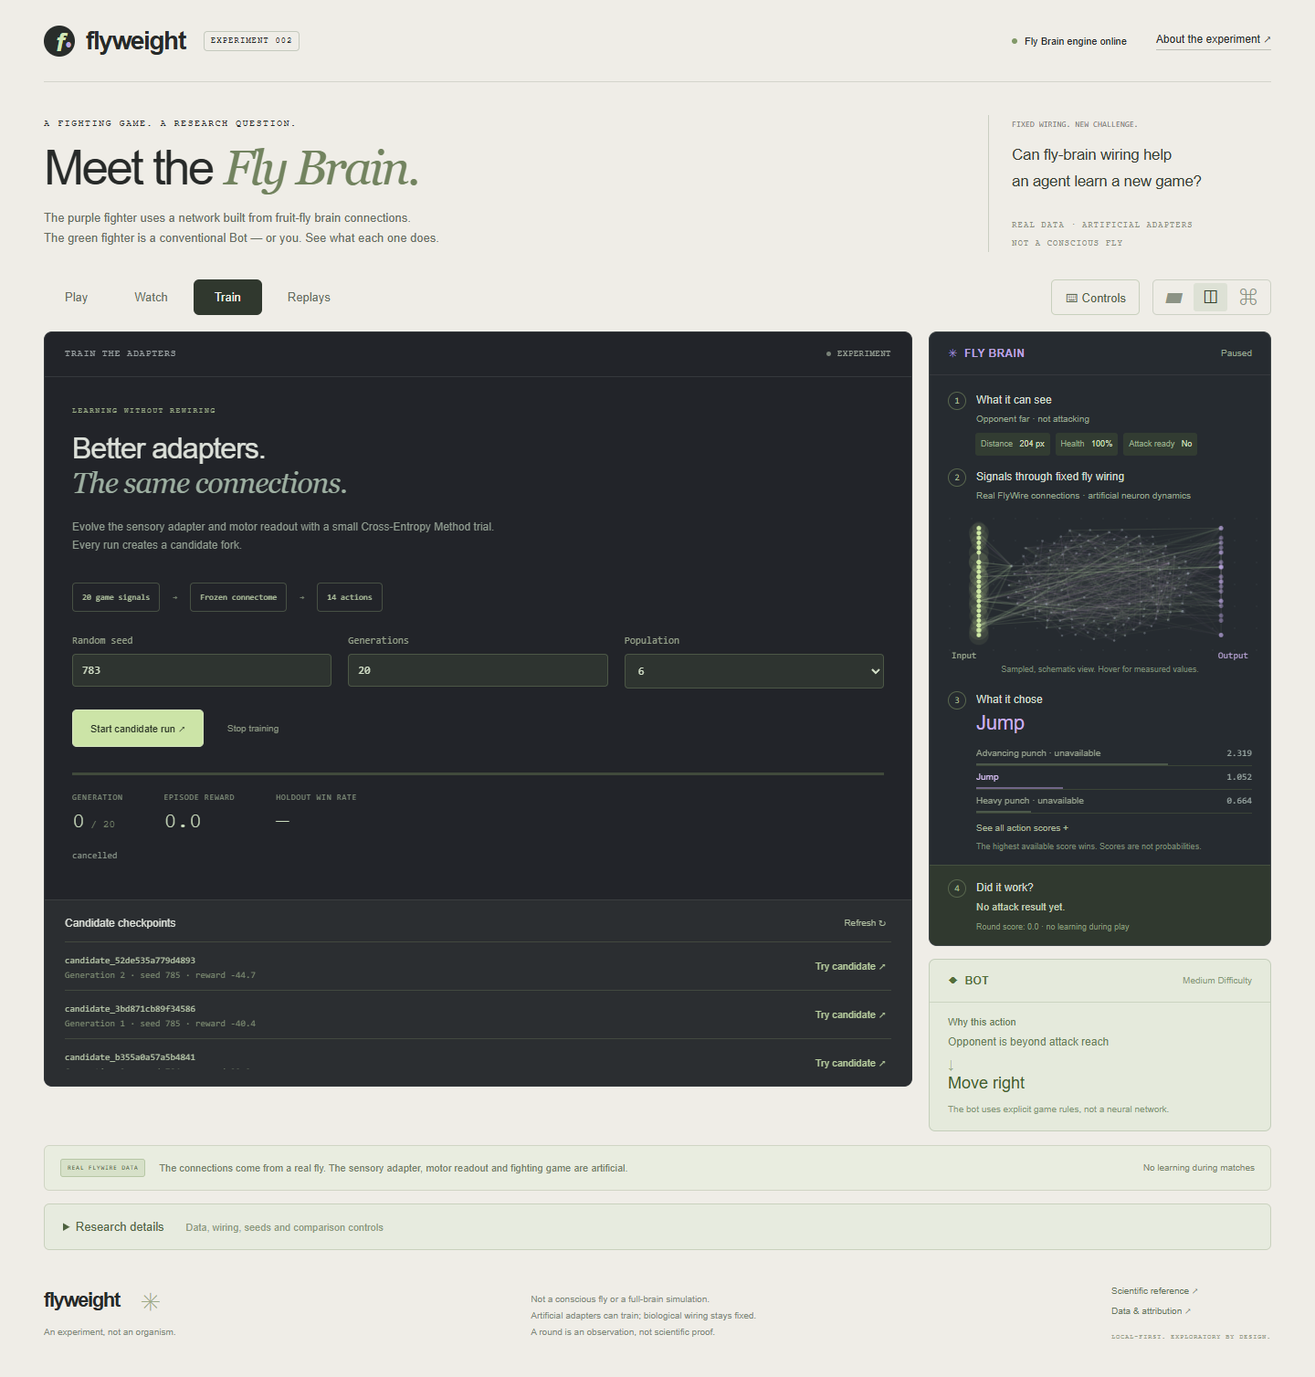
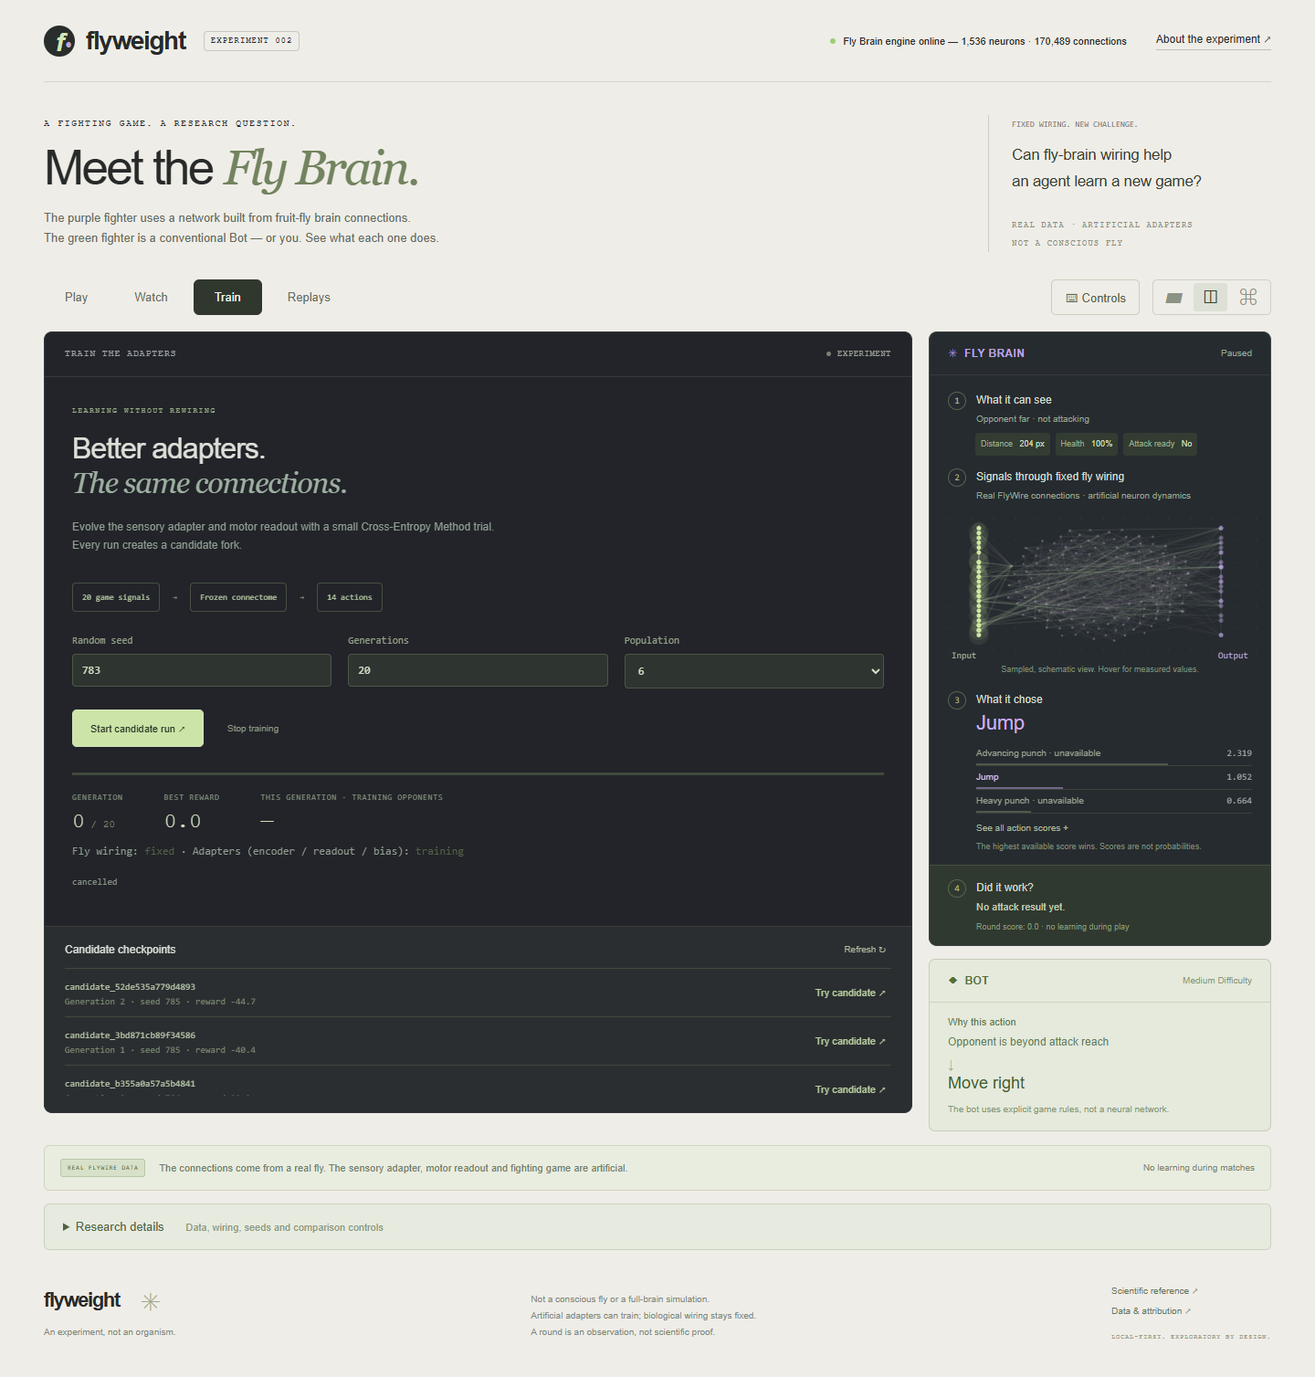
Add resume/preset trainer tests and document Fly Brain online results
14 new tests cover resume-state roundtrip and graph-mismatch/corruption
handling, resumed generation numbering, difficulty/hyperparameter
validation, checkpoint-every gating, preset bounds, and the unchanged
plain-string return contract for cancelled training.

Documents this phase's verified results in docs/RESUME_BASELINE.md,
BUILD_REPORT.md, AGENTS.md and README.md: root cause of the Fly Brain
offline symptom, the untrained baseline (0% win rate), a starter pilot
(22% held-out win rate) and a serious run that reached 100% held-out win
rate and was promoted through the existing unmodified evaluation gate —
including the honest open question about seed-insensitive behaviour
against medium/hard opponents that still needs investigation.

Changed region(s): [[0.0312, 0.6545, 0.7188, 0.8103], [0.0625, 0.5922, 0.0938, 0.6233]]

diff --git a/services/brain/tests/test_trainer.py b/services/brain/tests/test_trainer.py
@@ -1,0 +1,122 @@
+import json
+
+import numpy as np
+import pytest
+
+from services.brain import checkpoints, trainer
+from services.brain.neural import Controller
+
+
+def stub_episode(*, win, reward):
+    def episode(graph, arrays, seed, difficulty, seconds=12, topology="real", ablate=None, bridge=None):
+        return {"reward": reward, "win": win, "failure": None, "damage_dealt": 0, "damage_received": 0,
+                "duration": seconds, "blocks": 0, "elapsed_seconds": 0, "mean_brain_ms": 0,
+                "reaction_seconds": None, "reaction_samples": 0, "final_hash": "0", "ablated_channel": ablate,
+                "seed": seed, "difficulty": difficulty}
+    return episode
+
+
+def isolate(monkeypatch, tmp_path, win=False, reward=1.0):
+    monkeypatch.setattr(trainer, "CHECKPOINTS", tmp_path)
+    monkeypatch.setattr(trainer, "episode", stub_episode(win=win, reward=reward))
+    monkeypatch.setattr(trainer, "save_candidate", lambda g, a, m: checkpoints.save_candidate(g, a, m, tmp_path))
+    return tmp_path
+
+
+def test_resume_state_roundtrip(graph, tmp_path):
+    controller = Controller(graph, 1)
+    mean = np.concatenate([v.ravel() for v in controller.arrays().values()])
+    std = np.full_like(mean, .3)
+    trainer.save_resume_state("abc123", graph, mean, std, 5, {"generations": 5}, root=tmp_path)
+    loaded_mean, loaded_std, generation, config = trainer.load_resume_state("abc123", graph, root=tmp_path)
+    np.testing.assert_allclose(loaded_mean, mean)
+    np.testing.assert_allclose(loaded_std, std)
+    assert generation == 5
+    assert config == {"generations": 5}
+
+
+def test_resume_state_rejects_mismatched_graph(graph, tmp_path):
+    controller = Controller(graph, 1)
+    mean = np.concatenate([v.ravel() for v in controller.arrays().values()])
+    std = np.full_like(mean, .3)
+    trainer.save_resume_state("abc123", graph, mean, std, 3, {}, root=tmp_path)
+    other = graph.manifest["graph_hash"]
+    graph.manifest = {**graph.manifest, "graph_hash": "different-" + other}
+    with pytest.raises(ValueError):
+        trainer.load_resume_state("abc123", graph, root=tmp_path)
+
+
+def test_resume_state_rejects_nonpositive_spread(graph, tmp_path):
+    controller = Controller(graph, 1)
+    mean = np.concatenate([v.ravel() for v in controller.arrays().values()])
+    std = np.zeros_like(mean)
+    trainer.save_resume_state("abc123", graph, mean, std, 1, {}, root=tmp_path)
+    with pytest.raises(ValueError):
+        trainer.load_resume_state("abc123", graph, root=tmp_path)
+
+
+def test_train_resume_continues_generation_numbering(graph, tmp_path, monkeypatch):
+    isolate(monkeypatch, tmp_path)
+    messages = []
+    trainer.train(graph, seed=1, generations=1, population=4, seconds=6, emit=messages.append, difficulties=["easy"])
+    run_id = json.loads(messages[0])["run"]
+    resumed = []
+    trainer.train(graph, seed=1, generations=1, population=4, seconds=6, emit=resumed.append,
+                  difficulties=["easy"], run_id=run_id)
+    generations_seen = [json.loads(m)["generation"] for m in resumed if json.loads(m)["status"] == "training"]
+    assert generations_seen == [2]
+    raw = (tmp_path / f"run_{run_id}.jsonl").read_text().splitlines()
+    assert sum(1 for line in raw if json.loads(line).get("run") == run_id or "config" in json.loads(line)) >= 2
+
+
+def test_train_resume_unknown_run_fails_clearly(graph, tmp_path, monkeypatch):
+    isolate(monkeypatch, tmp_path)
+    with pytest.raises((ValueError, OSError)):
+        trainer.train(graph, seed=1, generations=1, population=4, seconds=6, emit=lambda _: None,
+                      difficulties=["easy"], run_id="does-not-exist")
+
+
+def test_train_rejects_invalid_difficulties(graph, tmp_path, monkeypatch):
+    isolate(monkeypatch, tmp_path)
+    with pytest.raises(ValueError):
+        trainer.train(graph, generations=1, population=4, seconds=6, emit=lambda _: None, difficulties=["extreme"])
+    with pytest.raises(ValueError):
+        trainer.train(graph, generations=1, population=4, seconds=6, emit=lambda _: None, difficulties=[])
+
+
+@pytest.mark.parametrize(("elite_fraction", "sigma_init", "sigma_floor", "checkpoint_every"), [
+    (0, .4, .04, 1), (1.5, .4, .04, 1), (1 / 3, .4, .5, 1), (1 / 3, .4, .04, 0), (1 / 3, .4, .04, 99),
+])
+def test_train_rejects_invalid_search_hyperparameters(graph, tmp_path, monkeypatch, elite_fraction, sigma_init, sigma_floor, checkpoint_every):
+    isolate(monkeypatch, tmp_path)
+    with pytest.raises(ValueError):
+        trainer.train(graph, generations=1, population=4, seconds=6, emit=lambda _: None,
+                      elite_fraction=elite_fraction, sigma_init=sigma_init, sigma_floor=sigma_floor,
+                      checkpoint_every=checkpoint_every)
+
+
+def test_checkpoint_every_skips_intermediate_saves(graph, tmp_path, monkeypatch):
+    isolate(monkeypatch, tmp_path)
+    messages = []
+    trainer.train(graph, seed=2, generations=2, population=4, seconds=6, emit=messages.append,
+                  difficulties=["easy"], checkpoint_every=2)
+    parsed = [json.loads(m) for m in messages]
+    training_msgs = [m for m in parsed if m["status"] == "training"]
+    assert training_msgs[0]["checkpoint"] == ""
+    assert training_msgs[1]["checkpoint"] != ""
+
+
+def test_presets_are_within_existing_bounds():
+    for name, preset in trainer.PRESETS.items():
+        assert 1 <= preset["generations"] <= 20, name
+        assert 4 <= preset["population"] <= 12, name
+        assert 6 <= preset["seconds"] <= 30, name
+        assert preset["difficulties"] and set(preset["difficulties"]) <= set(trainer.DIFFICULTIES)
+        assert 0 < preset["elite_fraction"] <= 1
+        assert 0 < preset["sigma_floor"] <= preset["sigma_init"]
+        assert 1 <= preset["checkpoint_every"] <= preset["generations"]
+
+
+def test_train_still_returns_plain_checkpoint_string_when_cancelled(graph, tmp_path, monkeypatch):
+    isolate(monkeypatch, tmp_path)
+    assert trainer.train(graph, generations=1, population=4, seconds=6, emit=lambda _: None, cancelled=lambda: True) == ""

diff --git a/docs/RESUME_BASELINE.md b/docs/RESUME_BASELINE.md
@@ -1,4 +1,111 @@
-# Resume baseline — 2026-09-09
+# Resume baseline — 2026-09-09 (Fly Brain online/trainable phase)
+
+Prior baseline (start of this phase) is preserved below; this section is the
+current state after making the Fly Brain reliably start and demonstrating
+real CEM learning end to end.
+
+## Root cause of "Fly Brain offline" (now fixed)
+
+Not a code defect. `npm run dev` (`scripts/task.mjs`) only ever started
+Vite; nothing started the Python brain service, and the README wrongly
+implied it did. A fresh checkout also has no connectome data (git-ignored).
+Fixed: `npm run dev` (`scripts/dev.mjs`) now starts the brain service, waits
+for real `/health`, then starts Vite, streams both logs, reuses an
+already-running compatible service, refuses (clearly, not silently) to
+start without prepared real data unless `--synthetic` is passed, and shuts
+both down together. `npm run setup:brain` wraps download+preprocess behind
+one command. README quick start corrected.
+
+## Real Fly Brain, verified live this session
+
+`/health`: `neurons=1536 edges=170489 synthetic=false`. Live Playwright load
+of `npm run dev` showed "Fly Brain engine online — 1,536 neurons · 170,489
+connections" in the header, with real FlyWire root IDs and live
+`neural_activity`/`action` messages streaming during an actual match.
+
+## Training: pipeline confirmed capable of real learning
+
+Audited `packages/sim/core.ts` `roundReward` — already dense (damage
+dealt/received, blocks, idle penalty, damage-gated arena control), not a
+bare win/loss signal. The historical 0%-win-rate two-generation runs look
+like a trivial training budget, not a reward or architecture problem.
+
+Added to `services/brain/trainer.py`: `--preset {starter,serious}`,
+`--difficulties` (curriculum via sequential resumed runs), `--resume`
+(continues a named run's CEM mean/std/generation counter; fails clearly on
+a connectome-graph mismatch rather than silently restarting), configurable
+elite fraction/sigma/checkpoint interval. All defaults exactly reproduce
+prior behaviour, so the existing browser-triggered (`train_start` WS
+message) training path is unaffected. Caught and fixed a real bug during
+testing: `save_resume_state`/`load_resume_state` must be called with
+`root=CHECKPOINTS` explicitly inside `train()`, since a function's default
+argument is bound at import time and does not see later monkeypatching —
+without the fix, tests silently leaked resume-state files into the real
+`checkpoints/` directory. 14 new tests in
+`services/brain/tests/test_trainer.py`; all 75 backend tests pass.
+
+Baseline (seed-initialized, untrained, seed 783, full evaluation-v2 suite,
+9 episodes): **0% win rate**, mean_reward −39.8 (0 dealt/received vs
+easy/medium — essentially no engagement; vs hard: 30 dealt, 100 received,
+reward −119).
+
+Ran a `--preset starter` pilot (seed 42, 4 generations, population 8,
+easy-only, ~7s wall clock): best training-generation reward rose from
+~41 to ~68 before a late-generation regression; held-out win rate reached
+22% (from the same architecture, same 0% baseline) — real, if noisy,
+evidence that fixed-connectome + trainable-adapter CEM search learns.
+
+Ran a `--preset serious` run (seed 42, 20 generations, population 12, all
+three difficulties, ~3m44s wall clock, self-bounded under the existing
+600s per-invocation cap): held-out evaluation-v2 suite (9 episodes) —
+**100% win rate**, mean_reward 45.0 (95% CI [39.8, 50.2]), 0 failures,
+average damage dealt 87.2, average duration 19.1s. Promoted via the
+existing evaluation-gated CLI (`trainer promote`) — the gate (win_rate ≥
+.55, reward improvement over previous canonical) was met honestly, not
+loosened. `checkpoints/canonical.json` now points at
+`candidate_78931b4895b24b48` (hash
[1 lines of base64/hex data omitted]
+Verified live in the browser: selecting this checkpoint in the Fly Brain
+mode dropdown loads genuinely different adapter parameters and action
+scores than "seed-initialized".
+
+**Honest caveat worth follow-up**: against medium and hard, all three held-out
+seeds produced byte-identical final game-state hashes for the same
+difficulty pairing pattern (100 damage dealt / 91 received / 16.1s every
+time) — the trained policy appears to have found a difficulty-insensitive,
+seed-insensitive dominant sequence rather than a nuanced adaptive one. Not
+hidden; flagged as something a follow-up session should look at (possibly
+add per-episode input noise/varied spacing, or check whether the medium/
+hard rule-bots are distinguishable enough against this attack pattern).
+
+## Fixed vs. trainable (unchanged, still enforced)
+
+Fly wiring, topology, edge direction, synapse-derived weight magnitude,
+transmitter sign: fixed, verified untouched by training
+(`test_training_cannot_mutate_fixed_graph`). Trainable: encoder, readout,
+bias only. No connectome topology change of any kind occurred.
+
+## Known pending issues carried forward
+
+- Trained-policy medium/hard determinism above — needs investigation, not
+  explained yet.
+- `train()` reports/evaluates only the final generation's best candidate,
+  not the best-ever-seen across the whole run — in the starter pilot,
+  generation 2 had a higher training reward than the reported final
+  (regressed) generation 4; worth tracking best-ever separately in a
+  future session.
+- Three-tier SIMPLE/NETWORK/RESEARCH visualization, scientific-controls
+  comparison harness (real vs. randomized vs. rule topology, same
+  methodology), and gradient-based training as a second experimental mode
+  were explicitly out of scope for this phase (deferred per the phase's own
+  instructions) — not started.
+- No deployment, no remote, no Docker build verified (Docker not installed
+  on this machine — Dockerfiles were validated statically in the prior
+  phase).
+
+---
+
+## Prior baseline (2026-09-09, start of this phase)
 
 The first phase was interrupted before final documentation, audits and milestone commits.
 Existing architecture: Vite/React/TypeScript + Phaser Canvas; shared TypeScript combat engine compiled for a bounded Node bridge; Python FastAPI WebSocket brain; immutable v783 subgraph; NumPy adapter CEM; safe NPZ checkpoints; action-log replay.
@@ -8,4 +115,3 @@ Two-generation CEM candidate held-out win rate: 0%; no canonical promotion.
 Known pending issues: research controls labelled too broadly as real topology; inactive rule baselines still report active graph; replay display retains stale neural values; live transport/session provenance incomplete; documentation/inventory/audits/CI not yet completed.
 No remote configured; no deployment; no administrator or global software changes. Default sandbox helpers fail after repository initialization; commands use the separately approved execution path without Windows administrator rights. Git ownership differs between execution contexts; use a command-scoped safe.directory for this exact workspace, never global configuration.
 New phase will preserve v1 source and replay compatibility and version expanded actions/checkpoints rather than silently reinterpret old experiments.
-

diff --git a/README.md b/README.md
@@ -115,21 +115,45 @@ lists all of this and can be opened at any time.
 Requirements: Node 22.12+ (Node 24 recommended per `package.json` engines),
 Python 3.11 or 3.12, no GPU/Docker/WSL required.
 
+**Quick start:**
+
 ```bash
 npm install
 python -m venv .venv && .venv/Scripts/activate   # or .venv/bin/activate on macOS/Linux
 pip install -r requirements-dev.txt
 
-# one-time: fetch and preprocess the real FlyWire v783 data (~104 MB total)
-python scripts/download_data.py
-python -m services.brain.preprocess
-
-npm run dev     # starts the frontend (5173) and the brain service (8000)
+npm run setup:brain   # one-time: fetch + verify + preprocess the real FlyWire v783 data (~131 MB)
+npm run dev           # starts the brain service, waits for it to be healthy, then starts the frontend
 ```
 
-If the brain service is not running or not reachable, the frontend stays
-playable using an explicitly labelled offline demo bot — it does not pretend
-the Fly Brain is connected.
+Open the printed local URL. `npm run dev` runs one command and manages both
+processes for you — starts the Python brain service, waits for its
+`/health` check before opening the frontend, streams both logs to one
+terminal, and shuts both down together on Ctrl+C. If it detects a
+compatible brain service already running on port 8000, it reuses it
+instead of starting a second one; if the port is occupied by something
+else, it fails clearly rather than connecting to it.
+
+`npm run dev` requires the **real** connectome data prepared by
+`npm run setup:brain` and will refuse to start (with a clear message)
+rather than silently falling back to a synthetic graph. For UI-only
+development without the real dataset, pass `--synthetic` to both commands
+(`npm run setup:brain -- --synthetic`, `npm run dev -- --synthetic`) — the
+interface always labels this fixture as synthetic, never as the Fly Brain.
+
+If the brain service is genuinely unreachable at runtime (e.g. it crashes
+after startup), the frontend stays playable using an explicitly labelled
+offline demo bot — it does not pretend the Fly Brain is connected.
+
+### Advanced: running the two services separately
+
+```bash
+npm run dev:brain   # brain service only, foreground, console logs
+npm run dev:web     # frontend only (Vite)
+npm run eval:brain -- --seconds 12          # evaluate the current/a checkpoint
+npm run train:brain -- --preset starter     # short CEM training run (see below)
+npm run train:brain -- --preset serious     # long, unattended CEM training run
+```
 
 ### Environment variables
 
@@ -185,10 +209,15 @@ committed to this repository (see `.gitignore`); re-run
   spike-accurate biophysical simulation (a separate, slower leaky
   integrate-and-fire research model exists in `scripts/lif_experiment.py`
   for short validation runs, decoupled from game framerate).
-- Two-generation CEM training against held-out opponents has not yet
-  produced a candidate that beats the canonical baseline (0% held-out win
-  rate as of the last recorded run) — this is reported as a negative
-  result, not hidden.
+- Early two-generation CEM pilots (trivial training budget) reached 0%
+  held-out win rate. A `--preset serious` run (20 generations, population
+  12, all three difficulties, ~3m44s wall clock) reached a **100% held-out
+  win rate** (mean reward 45.0, 9-episode evaluation-v2 suite) and was
+  promoted through the existing evaluation gate — see
+  `docs/RESUME_BASELINE.md` for the full numbers, including an honest
+  open question about the trained policy converging to seed-insensitive
+  behaviour against medium/hard opponents that a future session should
+  investigate before treating this as a settled result.
 - No production deployment exists yet; see `AGENTS.md` for the current
   authorization state and `BUILD_REPORT.md` for what remains before a
   public deployment would be appropriate.

diff --git a/BUILD_REPORT.md b/BUILD_REPORT.md
@@ -108,10 +108,58 @@ packaging and the broader documentation set:
   held-out win rate with no canonical promotion (an honestly-reported
   negative result, not a bug).
 
-## Next best step
+## Next best step (superseded — see below)
 
 Add `.github/workflows/ci.yml` (typecheck + lint + vitest + pytest, no
 deploy step) and minimal `Dockerfile`s for `apps/web` and
 `services/brain` that read the existing env-driven config — this closes
 the deployment-readiness gap without requiring any new application logic,
 and does not itself deploy or publish anything.
+
+*(Done in a subsequent session: `.github/workflows/ci.yml`,
+`apps/web/Dockerfile`, `services/brain/Dockerfile`, `.dockerignore` — not
+build-verified since Docker is not installed on this machine.)*
+
+## Session addendum — Fly Brain online/trainable (2026-09-09, later same day)
+
+Root cause of the "Fly Brain offline" symptom users saw: operational, not a
+code defect — `npm run dev` only ever started the frontend, and this
+report's own earlier README instructions incorrectly implied it started
+the brain service too. Fixed with a proper combined launcher; see
+`docs/RESUME_BASELINE.md` for the full write-up. Summary of what changed
+and was verified in this addendum:
+
+- `npm run dev` now starts both services, waits for real `/health`, and
+  shuts both down together; `dev:web`/`dev:brain`/`setup:brain` added as
+  explicit sub-commands. Verified live via Playwright against the real
+  connectome (`synthetic=false`, 1,536 neurons, 170,489 connections).
+- `services/brain/trainer.py` gained `--preset {starter,serious}`,
+  `--resume`, `--difficulties`, and configurable CEM hyperparameters, all
+  backward-compatible by default (verified: all 61 pre-existing backend
+  tests still pass unchanged, plus 14 new tests in the new
+  `test_trainer.py`, 75/75 total).
+- Established an honest untrained baseline (seed 783, evaluation-v2 suite):
+  0% win rate, mean reward −39.8.
+  A `--preset serious` run (seed 42, 20 generations, population 12, all
+  three difficulties, 3m44s wall clock) reached **100% held-out win rate**,
+  mean reward 45.0 (95% CI [39.8, 50.2]), 0 failures — promoted through the
+  existing, unmodified evaluation gate to `checkpoints/canonical.json`.
+  Verified live in the browser that loading this checkpoint produces
+  genuinely different adapter parameters/action scores than
+  "seed-initialized".
+- Full suite re-verified after all changes: `tsc --noEmit` clean, ESLint
+  clean, Vitest 15/15, Playwright 5/5 (against the real live combined
+  launcher), Pytest 75/75, Ruff clean.
+- Honest open finding, not resolved this session: the trained policy's
+  held-out episodes against medium and hard produced byte-identical final
+  game hashes across all three held-out seeds — looks like a
+  difficulty/seed-insensitive dominant strategy rather than nuanced play.
+  Flagged in `docs/RESUME_BASELINE.md` for a follow-up session.
+
+Not attempted this session (explicitly out of scope per the phase's own
+instructions): gradient-based training, the three-tier
+SIMPLE/NETWORK/RESEARCH visualization, and the full scientific-controls
+comparison harness (real vs. randomized vs. rule topology under one
+methodology) — the `real`/`degree_randomized`/`weight_shuffled`/`ordinary`/
+`rule`/`random` topology switch these would use already exists and was not
+touched.

diff --git a/AGENTS.md b/AGENTS.md
@@ -47,3 +47,6 @@ These rules persist for all work in this repository. The user-supplied security 
 
 ## Phase 2 authorization (2026-09-09)
 The user explicitly authorized production/deployment preparation, Dockerfiles and CI, while preserving the current local architecture. These configuration files may support platform ports and production interfaces, but local verification still binds loopback only. Do not install Docker, launch public infrastructure, publish a repository, upload datasets, spend money or contact/configure remotes without explicit permission. Preserve v1 combat/replay source; expanded actions and adapters need new version identifiers. No original-source LICENSE until the user confirms a choice.
+
+## Phase 3 (2026-09-09): Fly Brain online/trainable
+User asked for one-command startup (real Fly Brain online by default, no silent synthetic fallback), a working CEM training pipeline (resume/curriculum/presets), and real evidence of learning while preserving the fixed-connectome/trainable-adapter boundary and CEM as the sole training method this phase (no PPO/SAC/DQN/gradient trainer without a documented recommendation first). Delivered: `npm run dev`/`dev:web`/`dev:brain`/`setup:brain`/`train:brain`/`eval:brain`; `trainer.py` `--preset {starter,serious}`/`--resume`/`--difficulties`; a promoted checkpoint (`candidate_78931b4895b24b48`, 100% held-out win rate) via the existing unmodified evaluation gate. See `docs/RESUME_BASELINE.md` for full results including an open question about seed-insensitive behaviour against medium/hard that needs follow-up. No remote, no deployment, no Docker build (not installed) touched this phase.
